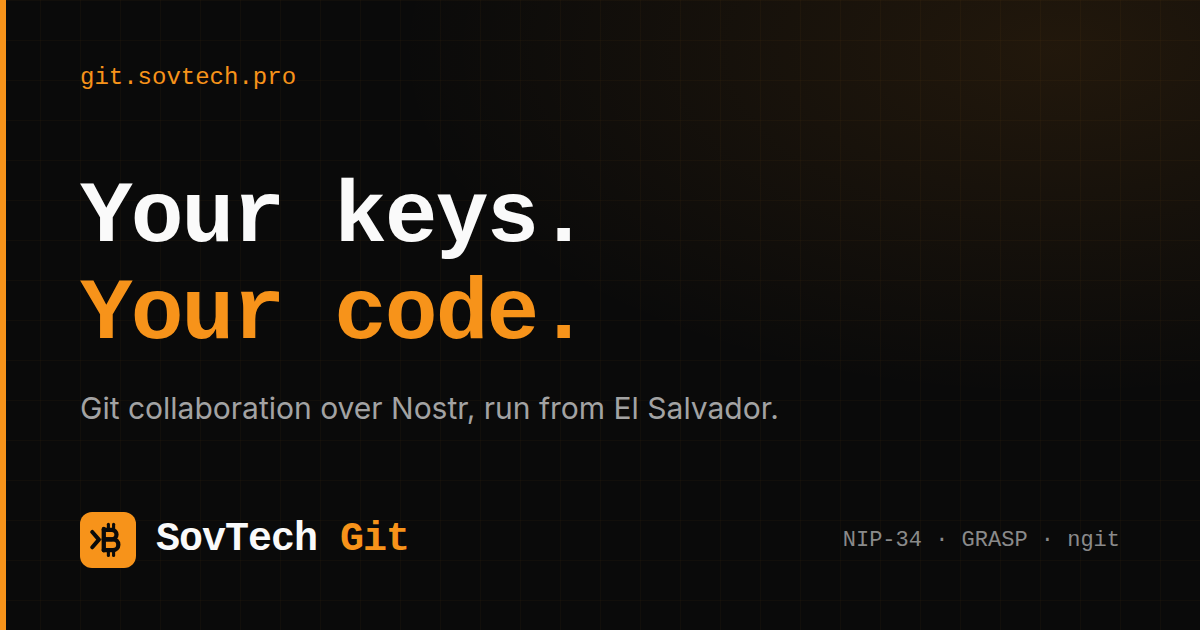
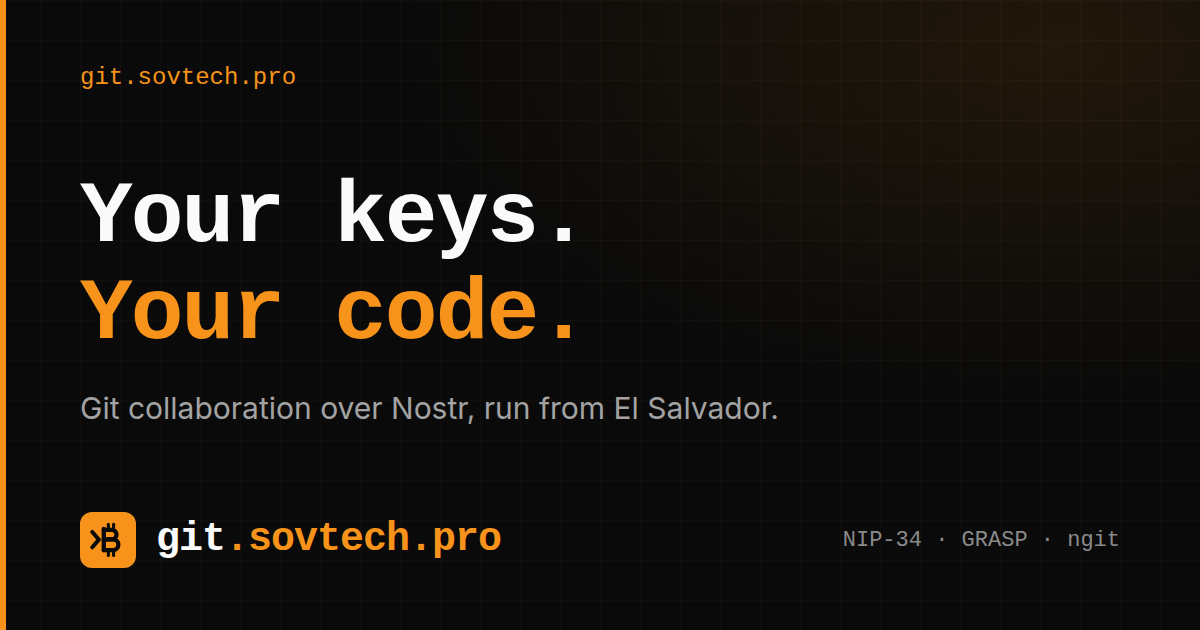
sovtech: recapture the OG image with the git.sovtech.pro wordmark
Captured from this branch's verify dist (/og-preview, 1200x630); the
asset-swaps blob and the SOVTECH.md spec are updated with it.

Changed region(s): [[0.1233, 0.8143, 0.4317, 0.9048]]

diff --git a/SOVTECH.md b/SOVTECH.md
@@ -337,7 +337,7 @@ Purpose: the source of `public/og-image.png`, which is 1200×630 and listed in `
   - Top left: `git.sovtech.pro`, mono 24px, `#F7931A`.
   - The hero at y≈170: "Your keys." in `#FAFAFA` and "Your code." in `#F7931A`, mono 88px bold, line-height 1.1, letter-spacing -2px.
   - Below it: "Git collaboration over Nostr, run from El Salvador.", Inter 30px, `#A3A3A3`.
-  - Bottom left: a 56px `#F7931A` rounded tile with a `#0A0A0A` BrandMark, then "SovTech" in `#FAFAFA` and " Git" in `#F7931A`, mono 40px bold.
+  - Bottom left: a 56px `#F7931A` rounded tile with a `#0A0A0A` BrandMark, then "git" in `#FAFAFA` and ".sovtech.pro" in `#F7931A`, mono 40px bold.
   - Bottom right: "NIP-34 · GRASP · ngit", mono 22px, `#8A8A8A`.
   - Every text colour is at least 5.7:1 on `#0A0A0A` (`#8A8A8A` is 5.73:1).
 - Drops the purple/pink palette, the GitWorkshop wordmark, "powered by Git & Nostr" and the preview outline.
